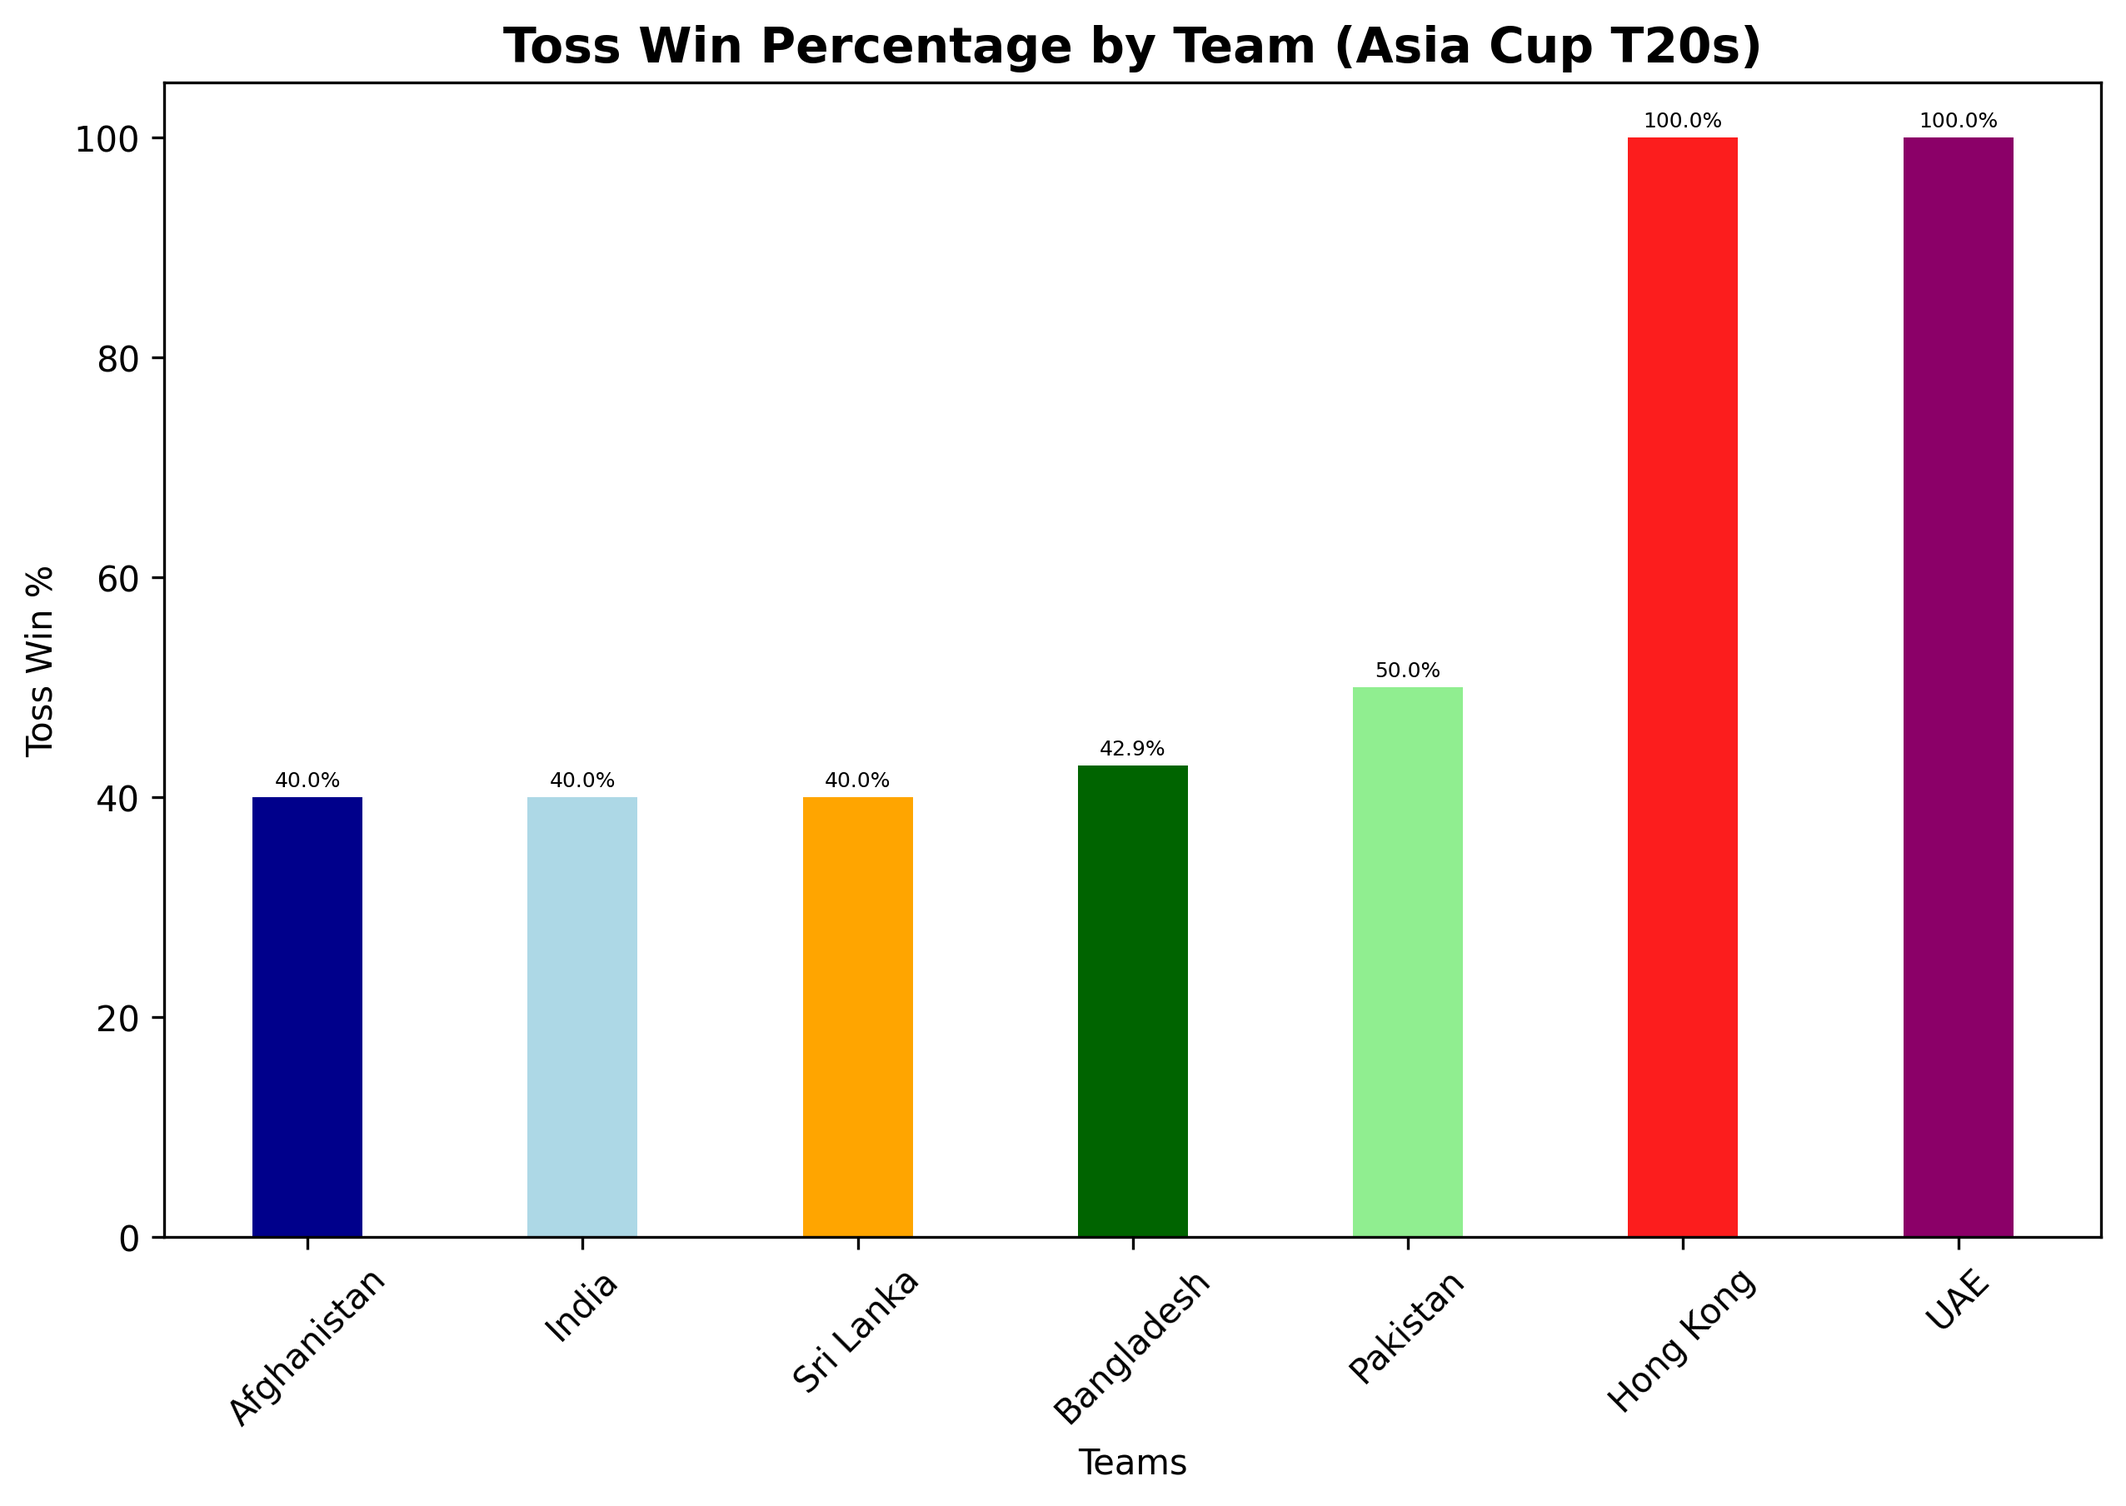
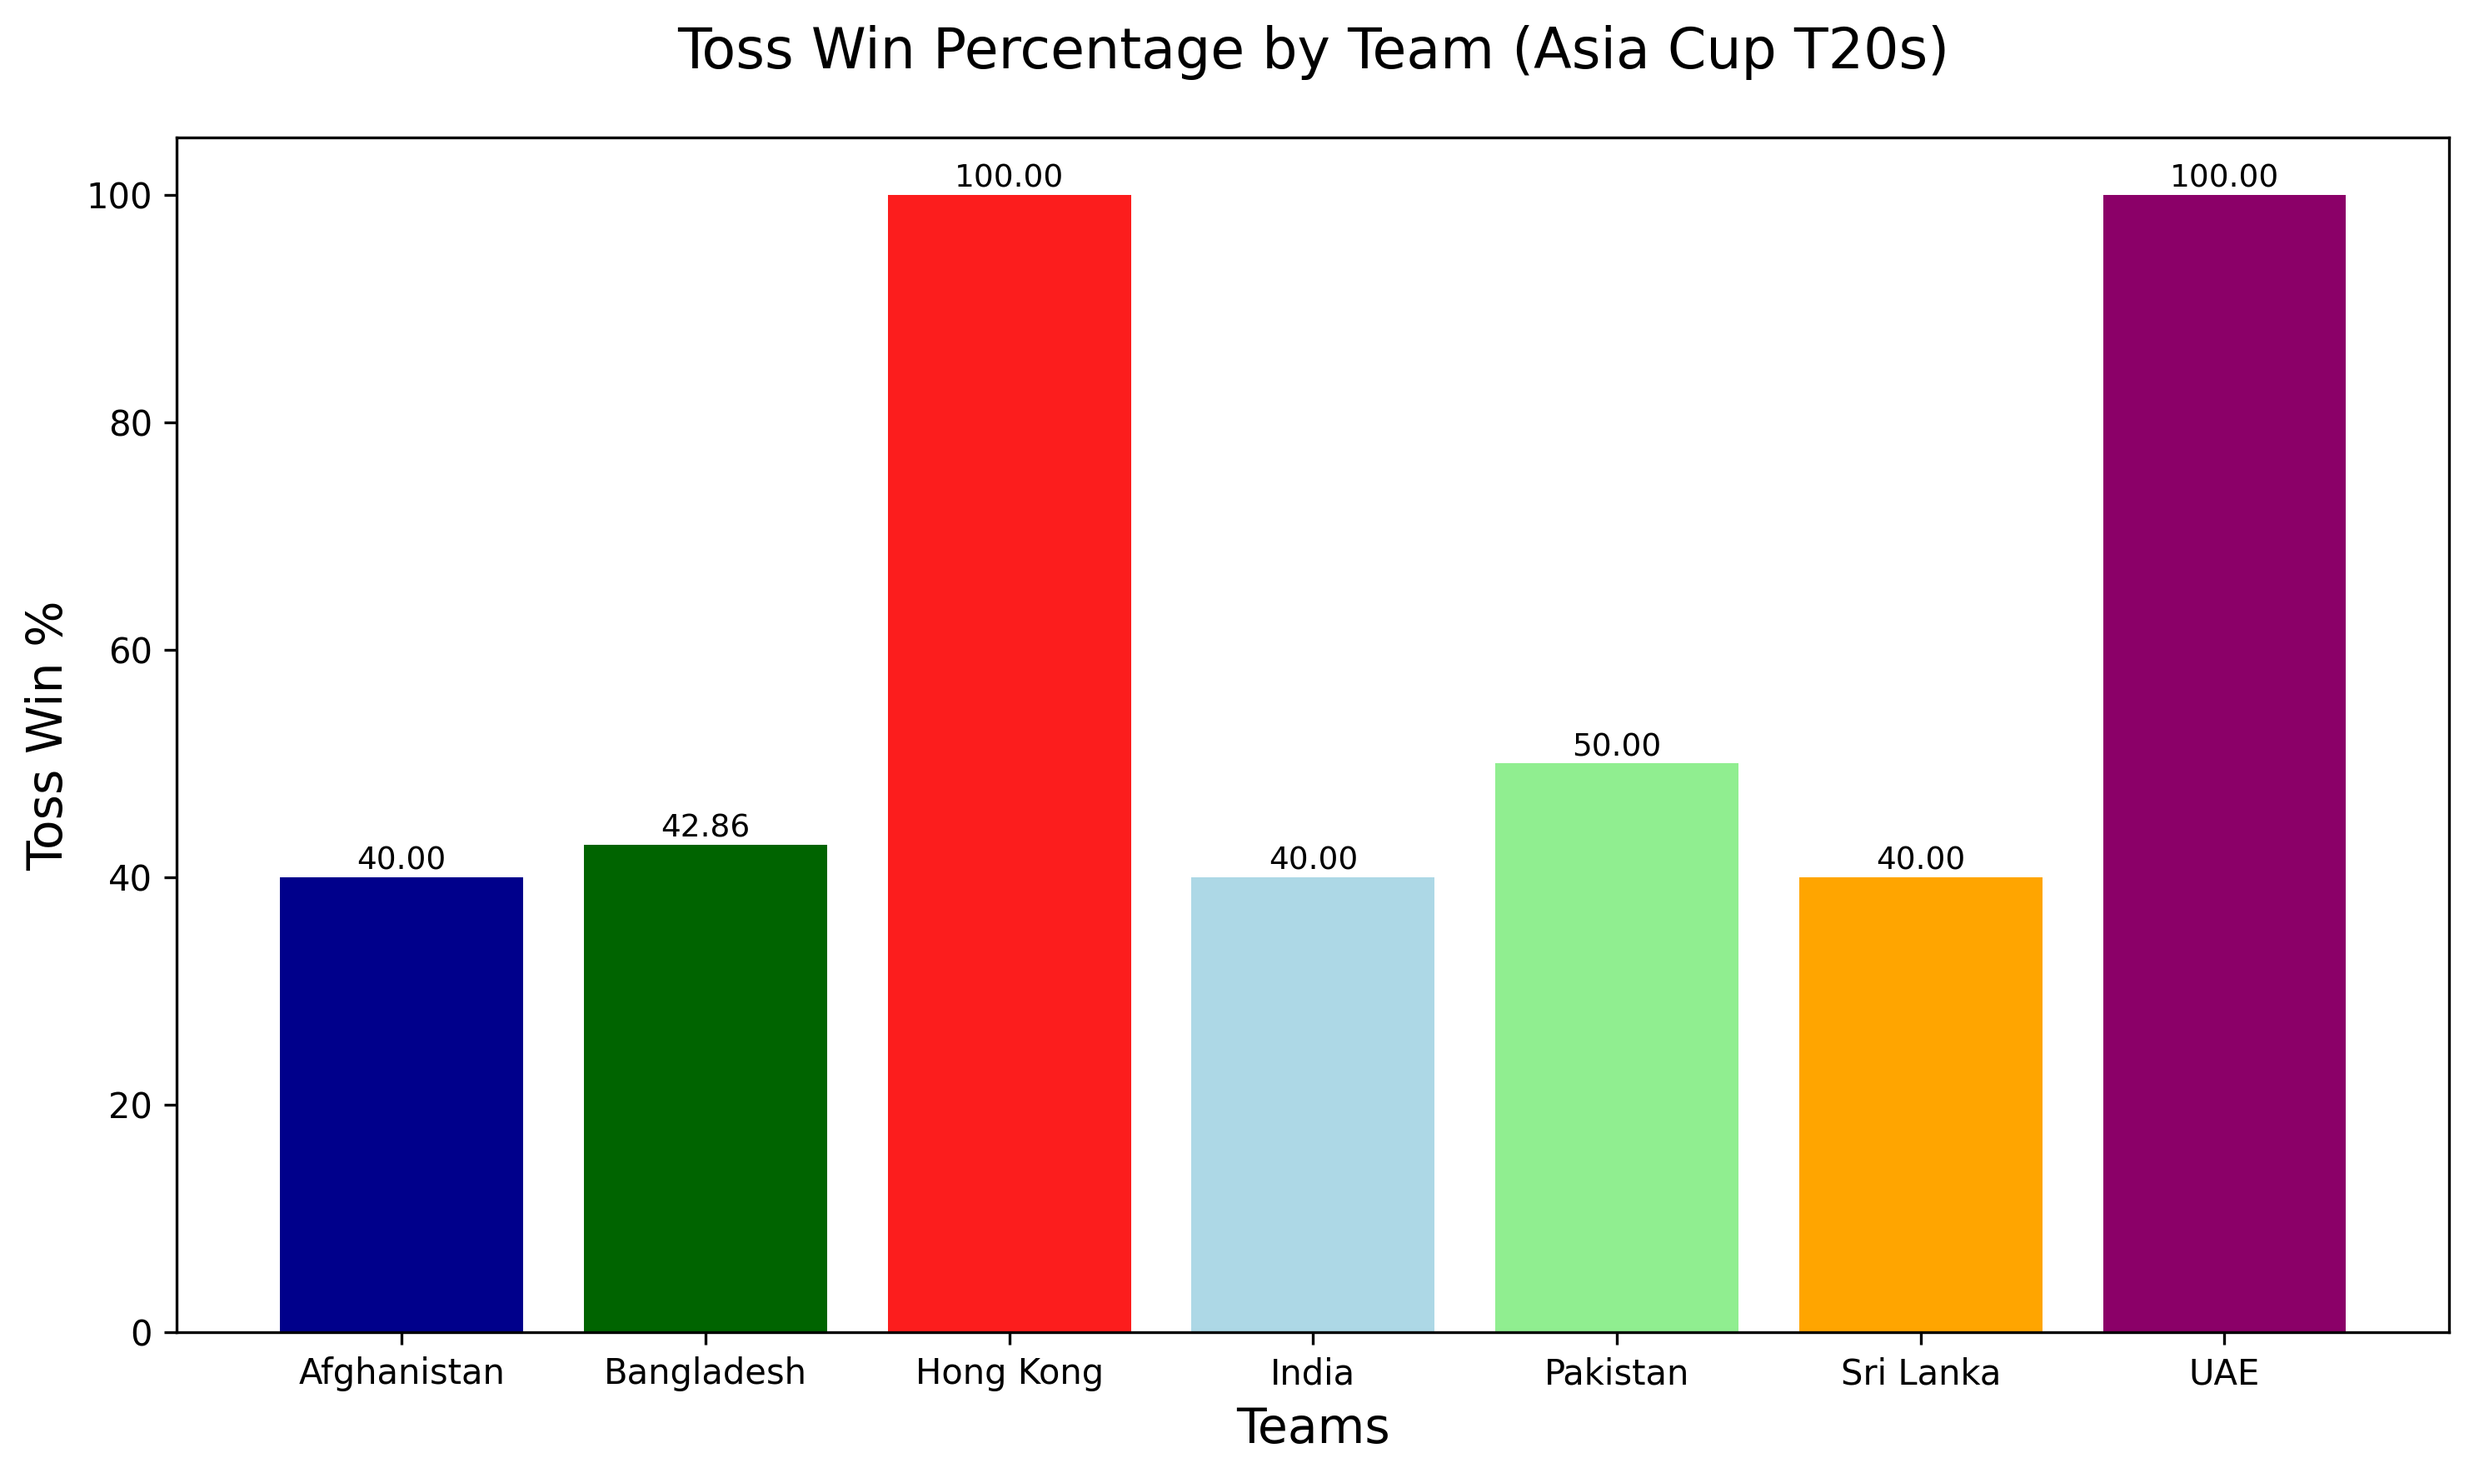
Gave Bar Charts Orientation

diff --git a/charts.py b/charts.py
@@ -1,7 +1,7 @@
 # pie_chart.py
 import numpy as np
 import matplotlib.pyplot as plt
-from matplotlib import patheffects as path_effects
+import pandas as pd
 
 def makePieChart(data, labels=None, colors_map=None, title="Pie Chart", save_path=None, 
                  number_type="count", figsize=(7,7), text_color="white"):
@@ -70,7 +70,6 @@ def makePieChart(data, labels=None, colors_map=None, title="Pie Chart", save_pat
     # White text with black border
     for autotext in autotexts:
         autotext.set_color(text_color)
-        autotext.set_path_effects([path_effects.withStroke(linewidth=2, foreground="black")])
 
     # Arrows for labels
     label_radius = 1.2
@@ -98,39 +97,102 @@ def makePieChart(data, labels=None, colors_map=None, title="Pie Chart", save_pat
     else:
         plt.show()
 
-def makeBarChart(data, colors_map, title, x_label, y_label, save_path=None):
+def makeBarChart(data, title, xlabel, ylabel, colors_map, save_path=None, line_style='-', figsize=(10, 6), orientation='vertical'):
     """
-    Generalized function to create a bar chart.
+    Function to plot a bar chart with customizable parameters, supporting both vertical and horizontal bar charts.
 
     Parameters:
-    - data: The data to plot (e.g., a pandas Series or dictionary)
-    - title: Title of the chart
-    - x_label: Label for the x-axis
-    - y_label: Label for the y-axis
-    - save_path: Optional path to save the chart image
-
-    Returns:
-    - None
+    - data: A pandas DataFrame or Series with x and y values.
+    - title: Title of the chart.
+    - xlabel: Label for the x-axis.
+    - ylabel: Label for the y-axis.
+    - colors_map: Dictionary mapping categories to colors.
+    - save_path: Path to save the figure (optional).
+    - line_style: Style of the line (default is solid line '-').
+    - figsize: Tuple for the figure size (default is (10, 6)).
+    - orientation: 'vertical' or 'horizontal' to control bar chart orientation.
     """
-    data = data.sort_values(ascending=True)
-    plt.figure(figsize=(10, 6))
-    colors = [colors_map.get(team, '#808080') for team in data.index]  # Default to gray if not found
-    bars = plt.bar(data.index, data.values, color=colors, edgecolor='none', width=0.4)
+    plt.figure(figsize=figsize)
 
-    # Add percentage labels on the bars
-    for bar in bars:
-        plt.text(bar.get_x() + bar.get_width() / 2, bar.get_height() + 1,
-                 f"{bar.get_height():.1f}%", ha='center', fontsize=6, fontweight='light')
+    if orientation == 'vertical':
+        # Plot vertical bars
+        bars = plt.bar(data.index, data, color=[colors_map.get(team, '#808080') for team in data.index])
+        
+        # Add values above each bar
+        for bar in bars:
+            height = bar.get_height()
+            plt.text(bar.get_x() + bar.get_width() / 2, height + 0.1, 
+                     f'{height:.2f}', ha='center', va='bottom', fontsize=9)
+        
+        plt.xlabel(xlabel, fontsize=14)
+        plt.ylabel(ylabel, fontsize=14)
 
-    # Add titles and labels
-    plt.title(title, fontsize=14, fontweight="bold")
-    plt.ylabel(y_label)
-    plt.xlabel(x_label)
-    plt.xticks(rotation=45)
+    elif orientation == 'horizontal':
+        # Plot horizontal bars
+        bars = plt.barh(data.index, data, color=[colors_map.get(team, '#808080') for team in data.index])
 
-    # Save the plot if save_path is provided
+        # Add values beside each bar
+        for bar in bars:
+            width = bar.get_width()
+            plt.text(width + 0.1, bar.get_y() + bar.get_height() / 2, 
+                     f'{width:.2f}', va='center', fontsize=9)
+        
+        plt.ylabel(xlabel, fontsize=14)
+        plt.xlabel(ylabel, fontsize=14)
+
+    plt.title(title, fontsize=16, pad=20)
+
+    # Adjust layout to avoid clipping
+    plt.tight_layout()
     if save_path:
-        plt.savefig(save_path, dpi=300, bbox_inches="tight")
+        plt.savefig(save_path, bbox_inches="tight", dpi=300)
+    else:
+        plt.show()
 
-    # Show the plot
-    plt.show()
+def makeLineChart(data, title, xlabel, ylabel, colors_map, save_path=None, line_style='-', figsize=(10, 6)):
+    """
+    Function to plot a line chart with customizable parameters.
+
+    Parameters:
+    - data: A pandas DataFrame or Series with x and y values.
+    - title: Title of the chart.
+    - xlabel: Label for the x-axis.
+    - ylabel: Label for the y-axis.
+    - colors_map: Dictionary mapping categories to colors.
+    - save_path: Path to save the figure (optional).
+    - line_style: Style of the line (default is solid line '-').
+    - figsize: Tuple for the figure size (default is (10, 6)).
+    """
+    plt.figure(figsize=figsize)
+
+    # Ensure data is a Series if it's a DataFrame
+    if isinstance(data, pd.DataFrame):
+        data = data.squeeze()  # Convert DataFrame to Series
+
+    # Plot each team's line
+    for team, color in colors_map.items():
+        if team in data.index:  # Check if team exists in the index of the data
+            plt.plot(data.index, data[team], label=team, color=color, linestyle=line_style, linewidth=2)
+
+    # Set chart title and labels
+    plt.title(title, fontsize=16, pad=20)
+    plt.xlabel(xlabel, fontsize=14)
+    plt.ylabel(ylabel, fontsize=14)
+
+    # Adjust legend position (add more space on the right)
+    plt.legend(
+        title="Teams", 
+        loc="upper left", 
+        bbox_to_anchor=(0.8, 1),  # Add more space to the right of the plot
+        borderaxespad=0.2,         # Adds some padding between the legend and the plot
+        handlelength=1.5, 
+        handleheight=1.5
+    )
+
+    plt.grid(True, which='both', linestyle='--', linewidth=0.5)
+
+    # Save or display the plot
+    if save_path:
+        plt.savefig(save_path, bbox_inches="tight", dpi=300)
+    else:
+        plt.show()

diff --git a/winnerAnalysis.py b/winnerAnalysis.py
@@ -1,15 +1,18 @@
 from data_scraping import matches
-from charts import makePieChart, makeBarChart
+from charts import makePieChart, makeBarChart, makeLineChart
+import pandas as pd
 
-# winCounts = matches[matches['Result']=="Win"]
-# winCounts = winCounts['Team'].value_counts()
-# makePieChart(
-#     data=winCounts, 
-#     colors_map={'Pakistan':'#90ee90','Bangladesh':'#006400','Sri Lanka':'#ffa500','India':'#add8e6','Afghanistan':'#00008B'},
-#     title="T20 Asia Cup Matches Wins by Team",
-#     save_path="Analysis/asia_cup_wins.png",
-#     number_type="count"
-# )
+colors_map={'Pakistan':'#90ee90','Bangladesh':'#006400','Sri Lanka':'#ffa500','India':'#add8e6','Hong Kong':"#FC1D1D",'UAE':"#8B0068",'Afghanistan':'#00008B'}
+
+winCounts = matches[matches['Result']=="Win"]
+winCounts = winCounts['Team'].value_counts()
+makePieChart(
+    data=winCounts, 
+    colors_map=colors_map,
+    title="T20 Asia Cup Matches Wins by Team",
+    save_path="Analysis/asia_cup_wins.png",
+    number_type="count"
+)
 
 
 
@@ -18,9 +21,21 @@ tossWins = matches[matches['Toss']=='Win']['Team'].value_counts()
 tossWinPercent = (tossWins/totalMatches)*100
 makeBarChart(
     data=tossWinPercent,
-    colors_map={'Pakistan':'#90ee90','Bangladesh':'#006400','Sri Lanka':'#ffa500','India':'#add8e6','Hong Kong':"#FC1D1D",'UAE':"#8B0068",'Afghanistan':'#00008B'},
+    colors_map=colors_map,
     title="Toss Win Percentage by Team (Asia Cup T20s)",
-    x_label="Teams",
-    y_label="Toss Win %",
+    xlabel="Teams",
+    ylabel="Toss Win %",
     save_path="Analysis/toss_win_percentage.png"
+)
+
+avgTeamRR = matches.groupby('Team')['Run Rate'].mean().sort_values(ascending=False)
+
+makeBarChart(
+    data=avgTeamRR,
+    colors_map=colors_map,
+    title="Average Run Rate per Team in T20 Asia Cup",
+    xlabel="Team",
+    ylabel="Average Run Rate",
+    save_path="Analysis/avg_run_rate_per_team.png",
+    orientation = 'horizontal'
 )
